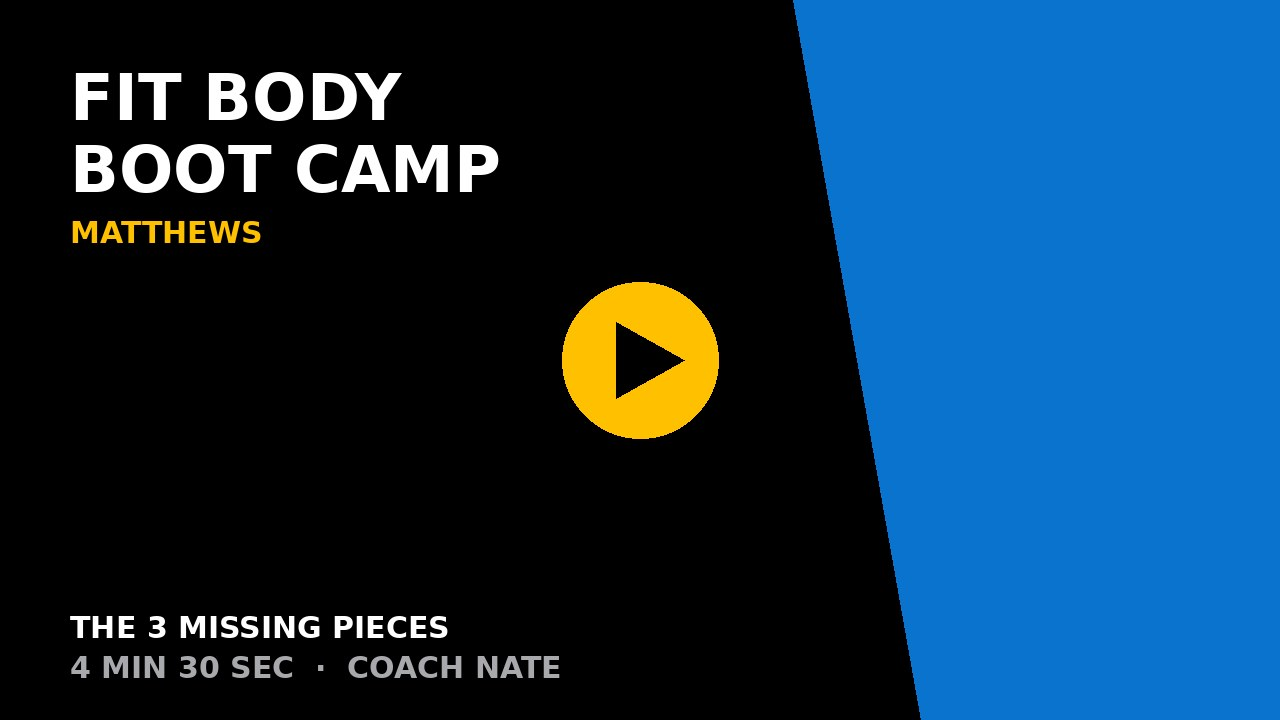
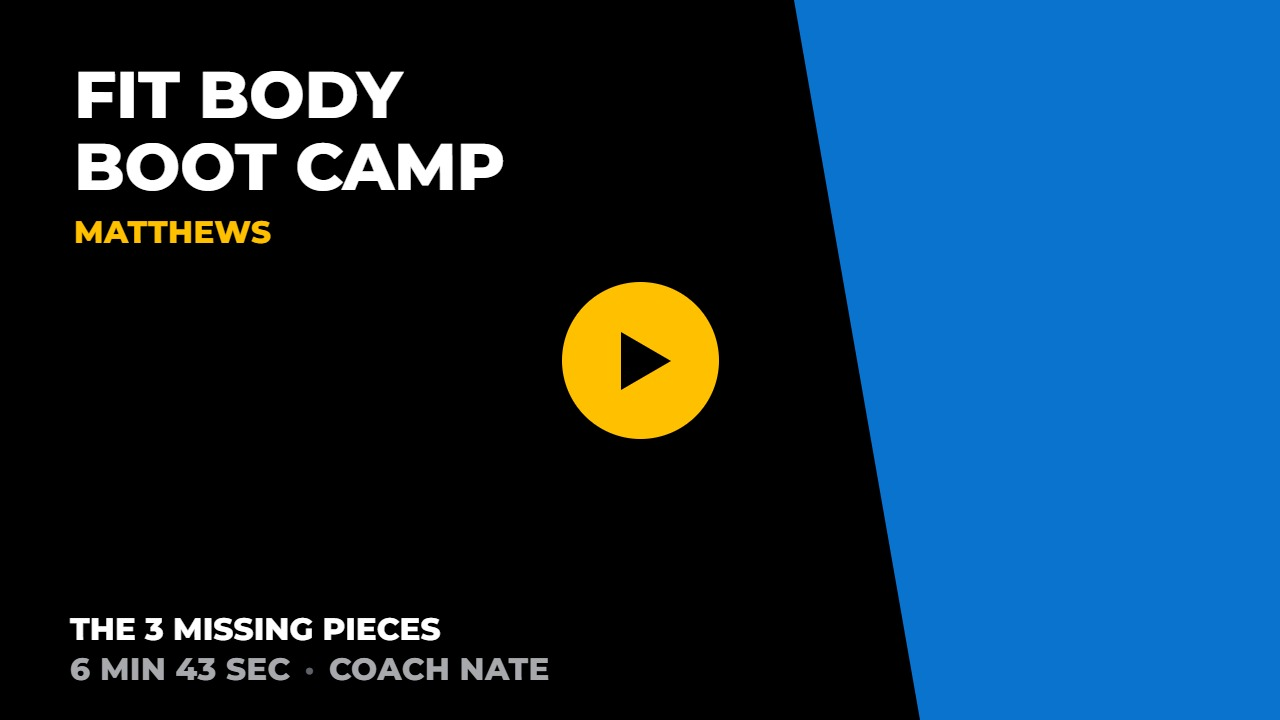
Correct VSL runtime to 6:43 across pages, schema and poster
The finished video runs 6 min 43 sec, not the 4:30 the copy had assumed
before it existed. Updates the hero badge, prose, alt/title text, the
VideoObject duration, and the baked-in lettering on the click-to-play
poster so the stated length matches what the player actually shows.

diff --git a/components/VslHero.tsx b/components/VslHero.tsx
@@ -76,8 +76,8 @@ export default function VslHero({
                 <span className="text-fbyellow">Isn&rsquo;t You.</span> Watch This.
               </h1>
               <p className="mx-auto mt-5 max-w-xl text-center text-lg text-silver">
-                In the next 4 minutes, Coach Nate reveals the 3 missing pieces behind every
-                lasting transformation in his gym — and why every program you&apos;ve tried was
+                In the next 7 minutes, Coach Nate reveals the 3 missing pieces behind every
+                lasting transformation in his gym, and why every program you&apos;ve tried was
                 missing at least two of them.
               </p>
             </>
@@ -88,8 +88,8 @@ export default function VslHero({
                 <span className="text-fbyellow">You Disappeared From Your Own List.</span>
               </h1>
               <p className="mx-auto mt-5 max-w-xl text-center text-lg text-silver">
-                It was never you. In the next 4 minutes, Coach Nate reveals the 3 missing
-                pieces behind every lasting transformation in his gym — and why every program
+                It was never you. In the next 7 minutes, Coach Nate reveals the 3 missing
+                pieces behind every lasting transformation in his gym, and why every program
                 you&apos;ve tried was missing at least two of them.
               </p>
             </>
@@ -99,7 +99,7 @@ export default function VslHero({
             <VslPlayer onPlay={onPlay} />
           </div>
           <p className="mt-3 text-center text-sm font-medium uppercase tracking-widest text-silver">
-            4 min 30 sec · Sound on
+            6 min 43 sec · Sound on
           </p>
 
           <div className="mt-8">

diff --git a/components/VslPlayer.tsx b/components/VslPlayer.tsx
@@ -127,12 +127,12 @@ export default function VslPlayer({ onPlay }: { onPlay?: () => void }) {
       {!playing ? (
         <button
           onClick={start}
-          aria-label="Play the 4-minute video"
+          aria-label="Play the 7-minute video"
           className="group absolute inset-0 h-full w-full focus-visible:outline focus-visible:outline-2 focus-visible:outline-offset-[-2px] focus-visible:outline-fbyellow"
         >
           <Image
             src={POSTER}
-            alt="Coach Nate — tap to play the 4-minute video"
+            alt="Coach Nate. Tap to play the 7-minute video"
             fill
             priority
             quality={70}
@@ -162,7 +162,7 @@ export default function VslPlayer({ onPlay }: { onPlay?: () => void }) {
         <iframe
           ref={iframeRef}
           src={`https://www.youtube-nocookie.com/embed/${VIDEO_ID}?enablejsapi=1&autoplay=1&rel=0&modestbranding=1&playsinline=1`}
-          title="Watch the 4-minute video"
+          title="Watch the 7-minute video"
           allow="autoplay; encrypted-media; picture-in-picture"
           allowFullScreen
           className="absolute inset-0 h-full w-full"
@@ -171,7 +171,7 @@ export default function VslPlayer({ onPlay }: { onPlay?: () => void }) {
         <iframe
           ref={iframeRef}
           src={`https://player.vimeo.com/video/${VIDEO_ID}?autoplay=1&playsinline=1`}
-          title="Watch the 4-minute video"
+          title="Watch the 7-minute video"
           allow="autoplay; fullscreen; picture-in-picture"
           allowFullScreen
           className="absolute inset-0 h-full w-full"

diff --git a/app/layout.tsx b/app/layout.tsx
@@ -30,11 +30,11 @@ export const metadata: Metadata = {
   metadataBase: new URL(SITE_URL),
   title: 'Free Transformation Assessment | Fit Body Boot Camp Matthews',
   description:
-    "In 4 minutes, Coach Nate reveals the 3 missing pieces behind every lasting transformation — and why every program you've tried was missing at least two of them.",
+    "In 7 minutes, Coach Nate reveals the 3 missing pieces behind every lasting transformation, and why every program you've tried was missing at least two of them.",
   openGraph: {
     title: 'Free Transformation Assessment | Fit Body Boot Camp Matthews',
     description:
-      "In 4 minutes, Coach Nate reveals the 3 missing pieces behind every lasting transformation — and why every program you've tried was missing at least two of them.",
+      "In 7 minutes, Coach Nate reveals the 3 missing pieces behind every lasting transformation, and why every program you've tried was missing at least two of them.",
     url: '/',
     siteName: 'Fit Body Boot Camp Matthews',
     type: 'website',
@@ -52,7 +52,7 @@ export const metadata: Metadata = {
     card: 'summary_large_image',
     title: 'Free Transformation Assessment | Fit Body Boot Camp Matthews',
     description:
-      "In 4 minutes, Coach Nate reveals the 3 missing pieces behind every lasting transformation — and why every program you've tried was missing at least two of them.",
+      "In 7 minutes, Coach Nate reveals the 3 missing pieces behind every lasting transformation, and why every program you've tried was missing at least two of them.",
     images: ['/og-image.jpg'],
   },
 };

diff --git a/components/Schema.tsx b/components/Schema.tsx
@@ -49,10 +49,10 @@ export function VideoSchema() {
         '@type': 'VideoObject',
         name: 'The 3 Missing Pieces Behind Every Lasting Transformation',
         description:
-          "Coach Nate reveals the 3 missing pieces behind every lasting transformation in his gym — and why every program you've tried was missing at least two of them.",
+          "Coach Nate reveals the 3 missing pieces behind every lasting transformation in his gym, and why every program you've tried was missing at least two of them.",
         thumbnailUrl: `${SITE_URL}${process.env.NEXT_PUBLIC_VSL_POSTER || '/images/vsl-poster.jpg'}`,
-        uploadDate: '2026-08-01',
-        duration: 'PT4M30S',
+        uploadDate: '2026-09-08',
+        duration: 'PT6M43S',
         publisher: { '@type': 'Organization', name: BIZ.name },
       }}
     />

diff --git a/app/resources/layout.tsx b/app/resources/layout.tsx
@@ -23,7 +23,7 @@ export default function ResourcesLayout({ children }: { children: React.ReactNod
           <Link href="/resources/gym-in-stallings-nc" className="underline">Gym in Stallings NC</Link>
           <Link href="/resources/gym-in-south-charlotte" className="underline">Gym in South Charlotte</Link>
           <Link href="/resources/burn-boot-camp-alternatives-matthews" className="underline">Burn Boot Camp alternatives</Link>
-          <Link href="/" className="underline">Watch the 4-minute video</Link>
+          <Link href="/" className="underline">Watch the 7-minute video</Link>
         </nav>
         <p>
           {BIZ.name} · {BIZ.street}, {BIZ.city}, {BIZ.state} {BIZ.zip} ·{' '}

diff --git a/app/watch/page.tsx b/app/watch/page.tsx
@@ -12,7 +12,7 @@ import { FAQS } from '@/components/SalesLetter';
 export const metadata: Metadata = {
   title: 'The Reason Nothing Has Worked Isn’t You | Fit Body Boot Camp Matthews',
   description:
-    "In the next 4 minutes, Coach Nate reveals the 3 missing pieces behind every lasting transformation in his gym — and why every program you've tried was missing at least two of them.",
+    "In the next 7 minutes, Coach Nate reveals the 3 missing pieces behind every lasting transformation in his gym, and why every program you've tried was missing at least two of them.",
   alternates: { canonical: '/watch' },
 };
 

diff --git a/app/tom/page.tsx b/app/tom/page.tsx
@@ -81,7 +81,7 @@ export default function TomPage() {
                 </div>
 
                 <p className="mx-auto mt-3 max-w-xl text-center text-sm text-silver">
-                  Coach Nate explains the 3 missing pieces in 4 minutes 30 seconds. Sound on.
+                  Coach Nate explains the 3 missing pieces in 6 minutes 43 seconds. Sound on.
                 </p>
               </div>
             </div>
